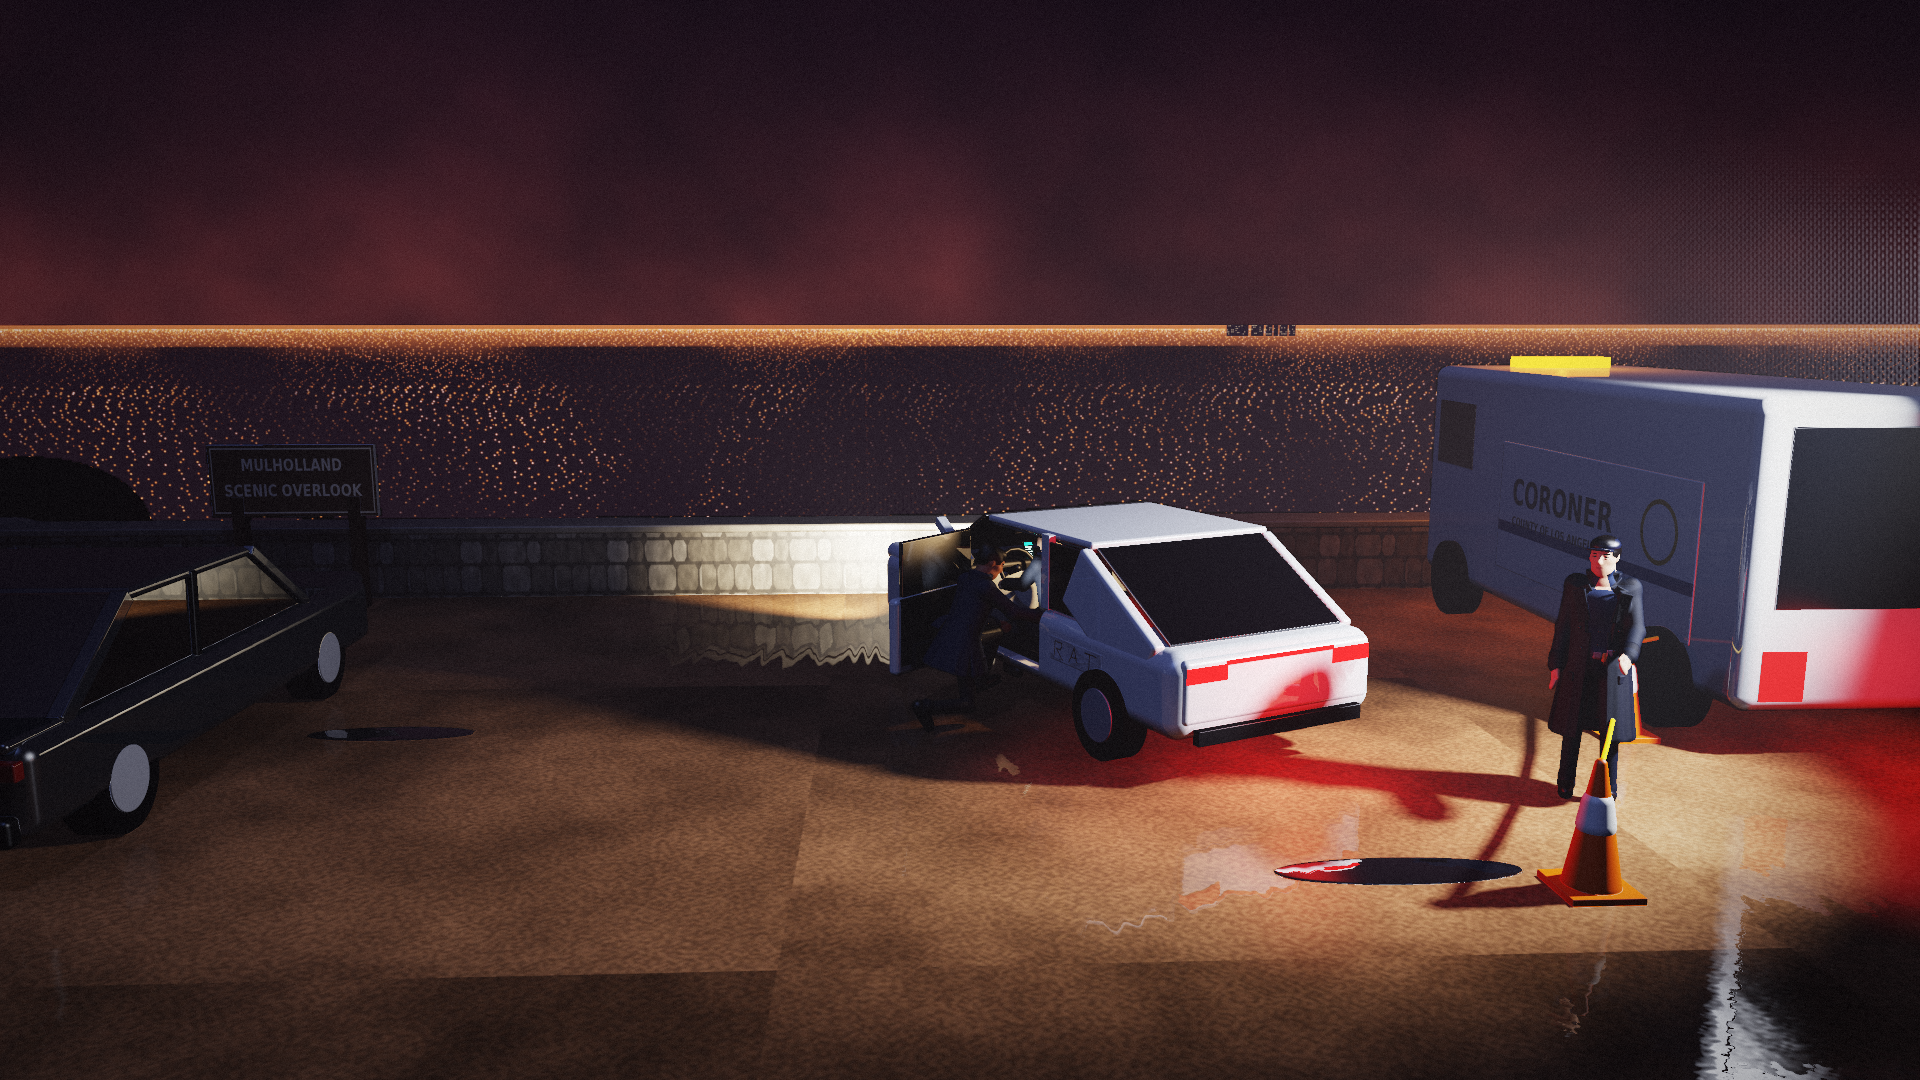
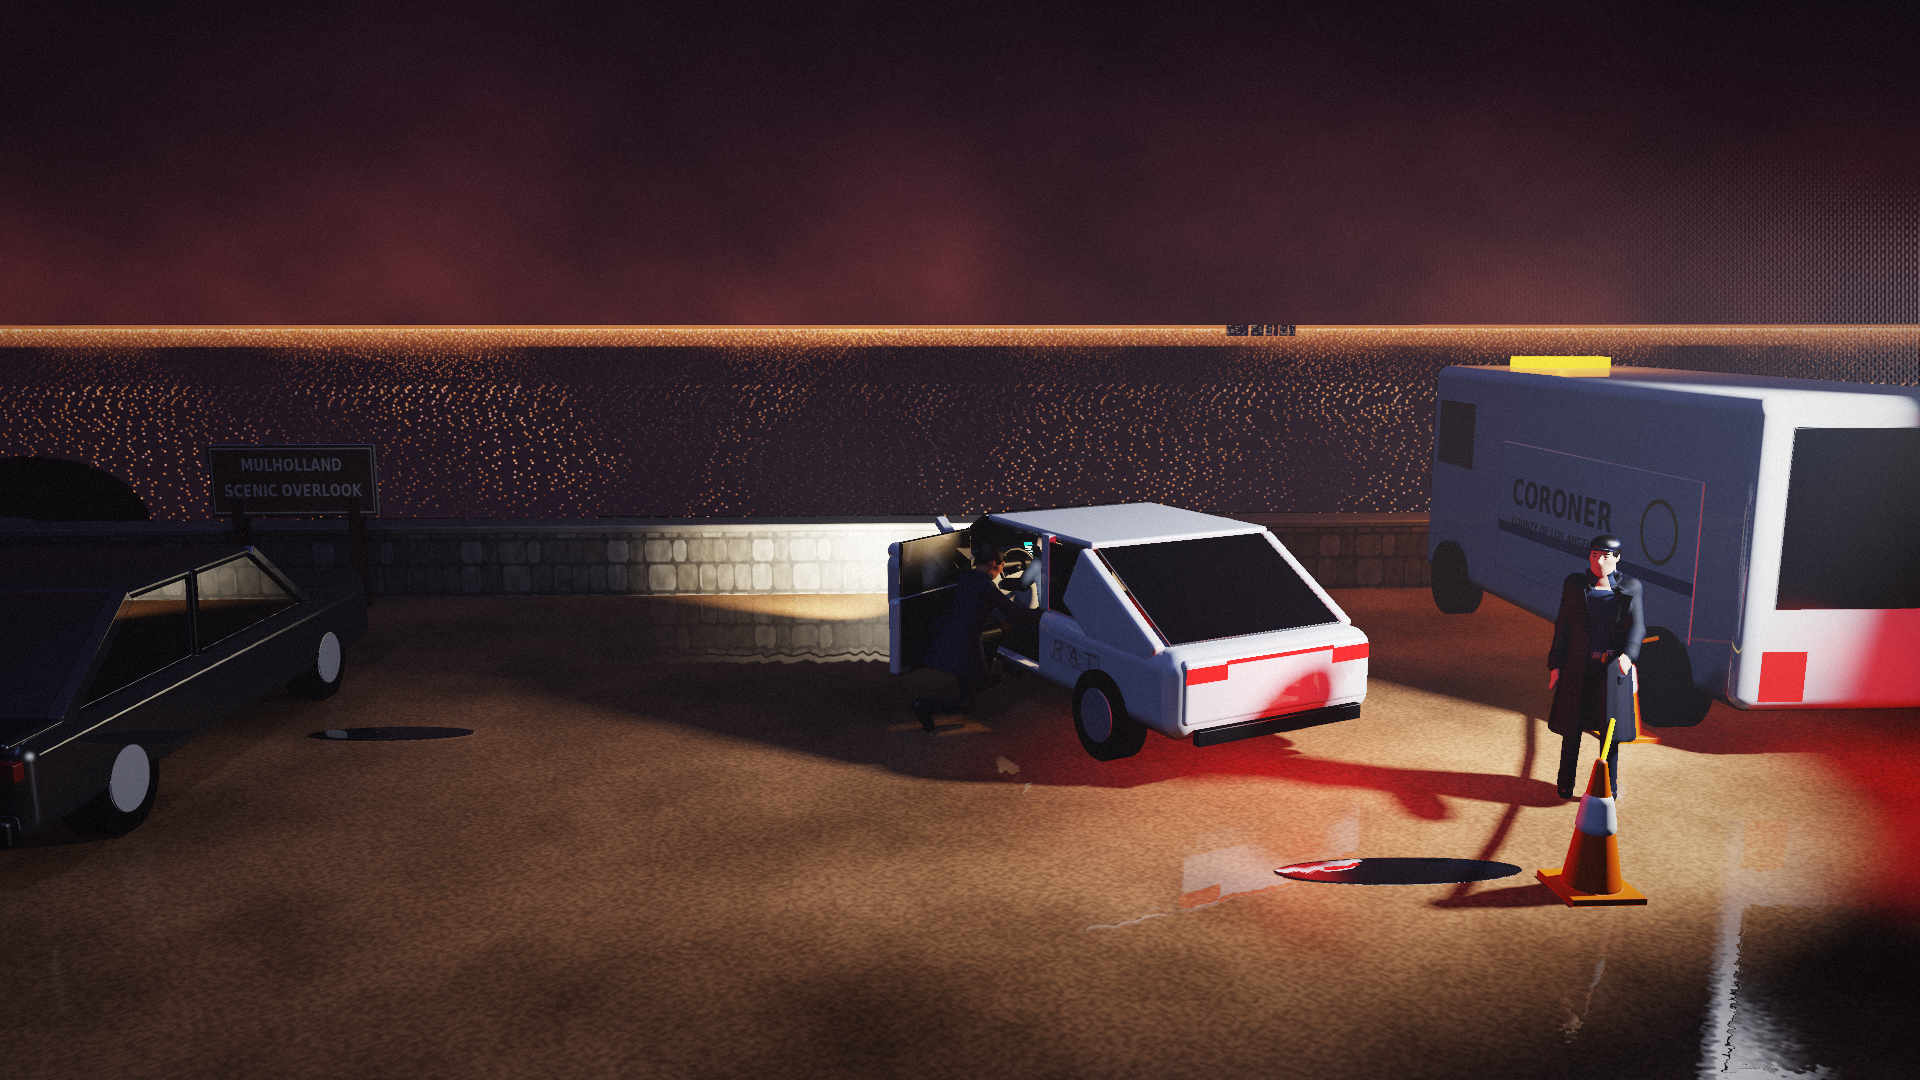
Mulholland: seamless ground texture, calmer wet-ground ripple
The decomposed granite texture didn't tile, so its 5 m repeats left straight
seams and brightness blocks across the pullout. It now uses noise_wrap(), an
FFT-blurred noise that wraps. The dirt's ripple drops from 0.05 to 0.015, so
the reflection of the headlit wall no longer zigzags.

diff --git a/tools/r3/textures.py b/tools/r3/textures.py
@@ -30,6 +30,20 @@ def noise(w, h, scale, seed=0, octaves=4):
         tot += amp; amp *= 0.5
     return out / tot
 
+def noise_wrap(w, h, scale, seed=0, octaves=4):
+    """Like noise(), but it tiles seamlessly: white noise blurred in the frequency domain, which wraps by nature.
+    Use it for textures that repeat over a large surface (triplanar ground), where noise() leaves straight seams."""
+    rng = np.random.default_rng(seed)
+    fy, fx = np.fft.fftfreq(h)[:, None], np.fft.fftfreq(w)[None, :]
+    out = np.zeros((h, w))
+    amp, tot = 1.0, 0
+    for o in range(octaves):
+        sig = max(0.5, scale / (2 ** o) / 2.5)
+        n = np.real(np.fft.ifft2(np.fft.fft2(rng.random((h, w))) * np.exp(-2 * (np.pi * sig) ** 2 * (fx ** 2 + fy ** 2))))
+        out += np.clip(0.5 + (n - n.mean()) / (n.std() + 1e-9) * 0.18, 0, 1) * amp
+        tot += amp; amp *= 0.5
+    return out / tot
+
 def to_img(rgb, a=None):
     rgb = np.clip(rgb, 0, 255).astype(np.uint8)
     if a is None: a = np.full(rgb.shape[:2], 255, np.uint8)
@@ -487,10 +501,10 @@ def night_clouds(seed=82, w=1024, h=256):
     return to_img(rgb, np.clip(0.35 + 0.65 * glow * (0.6 + 0.6 * n), 0, 1) * 255)
 
 def decomposed_granite(seed=83, w=256, h=256):
-    """Pale orange crushed-granite pullout, wet: grit and darker damp patches."""
-    n = noise(w, h, 40, seed); g = np.random.default_rng(seed).random((h, w))
+    """Pale orange crushed-granite pullout, wet: grit and darker damp patches. Tiles seamlessly."""
+    n = noise_wrap(w, h, 40, seed); g = np.random.default_rng(seed).random((h, w))
     rgb = np.array([164, 118, 80], float)[None, None, :] * (0.72 + 0.4 * n[..., None]) * (0.85 + 0.25 * g[..., None])
-    damp = np.clip((noise(w, h, 70, seed + 1) - 0.5) * 3, 0, 1)
+    damp = np.clip((noise_wrap(w, h, 70, seed + 1) - 0.5) * 3, 0, 1)
     rgb = rgb * (1 - 0.35 * damp[..., None])
     return to_img(rgb)
 

diff --git a/tools/r3/mulholland_overlook.py b/tools/r3/mulholland_overlook.py
@@ -33,7 +33,7 @@ def build(hide=()):
     rng = random.Random(41)
     # ---------------------------------------------------------------- materials
     S.mat('dirt', (255, 255, 255), tex=tx.hires(tx.decomposed_granite(), 2), texmode=4, texmap=1, texscale=5.0, refl=0.1,
-          ripple=0.05, spec=0.35, shin=40)
+          ripple=0.015, spec=0.35, shin=40)
     S.mat('puddle', (26, 24, 26), refl=0.92, ripple=0.08, spec=0.9, shin=120)
     S.mat('slope', (46, 38, 32), namp=0.4, nscale=3)
     S.mat('wall', (255, 255, 255), tex=tx.stone_wall(), texmode=4, texmap=1, texscale=1.6, refl=0.1, spec=0.3, shin=30)
